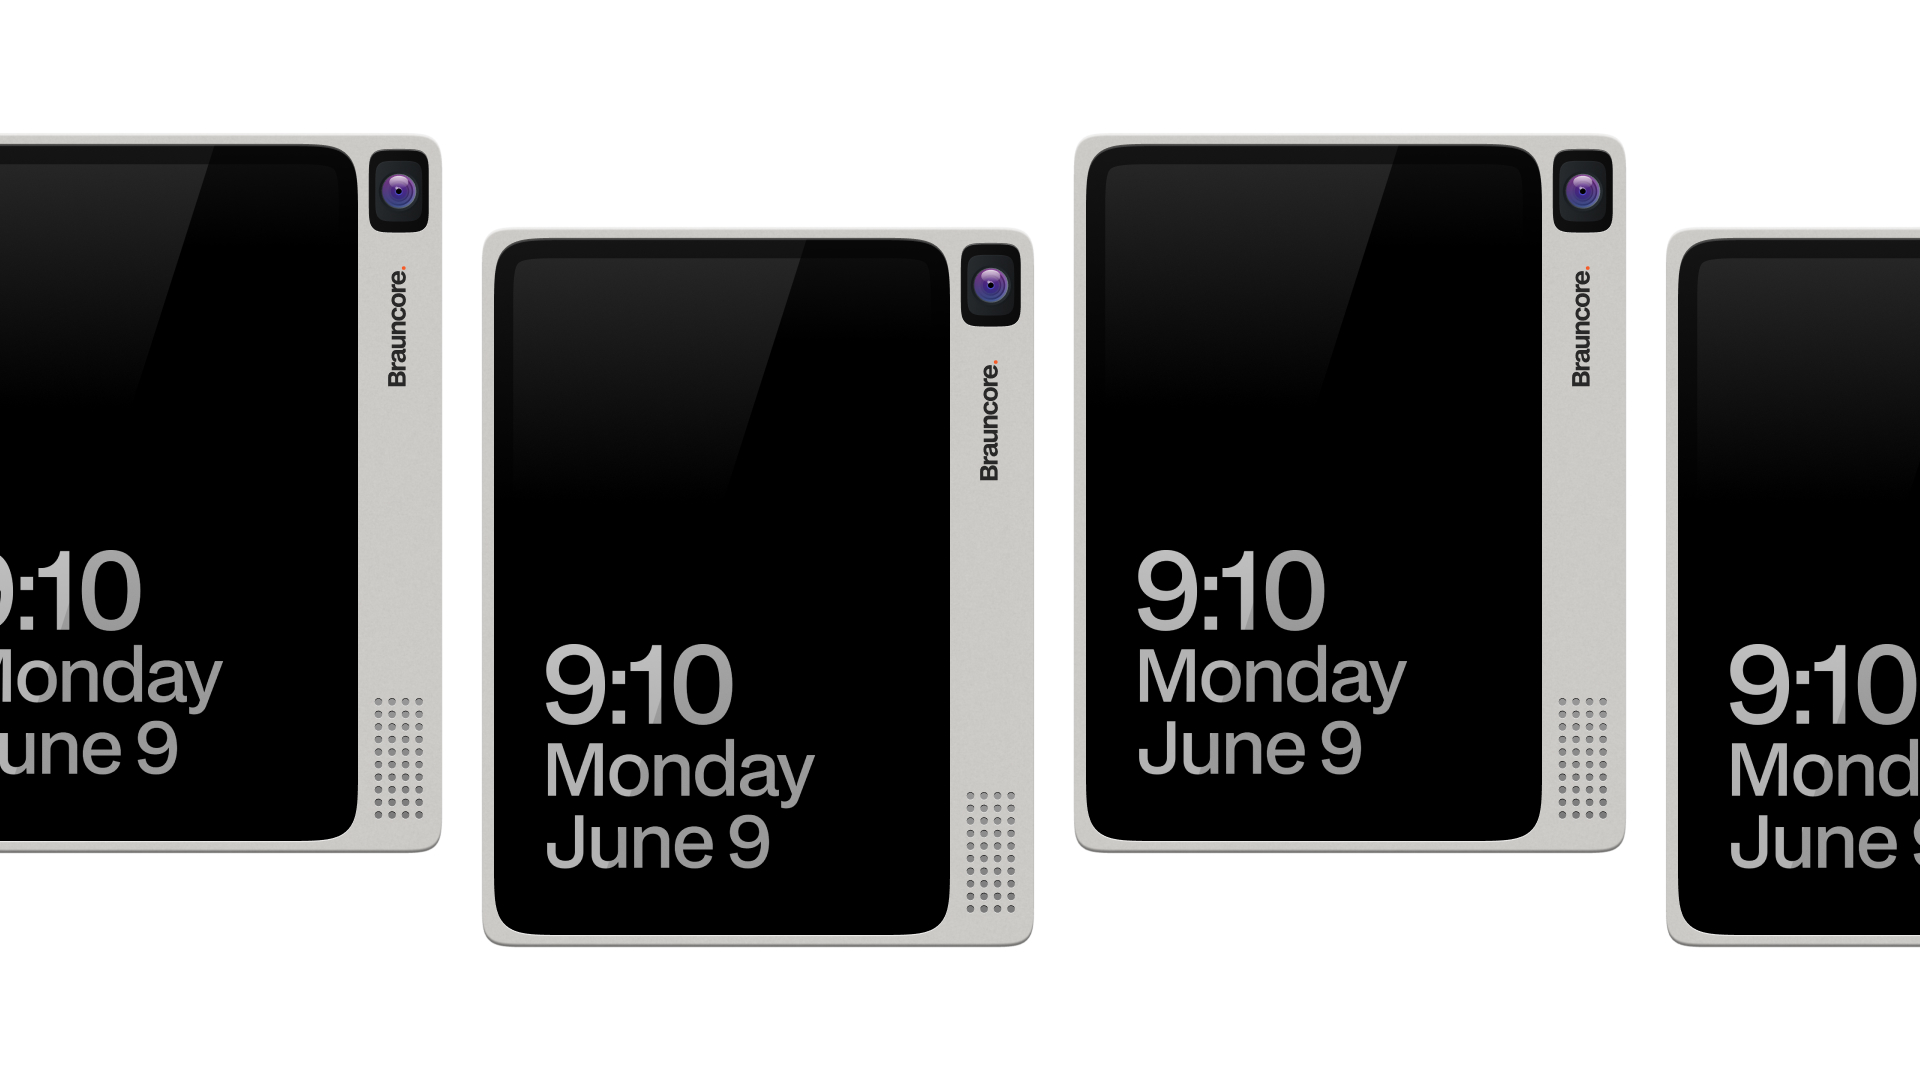
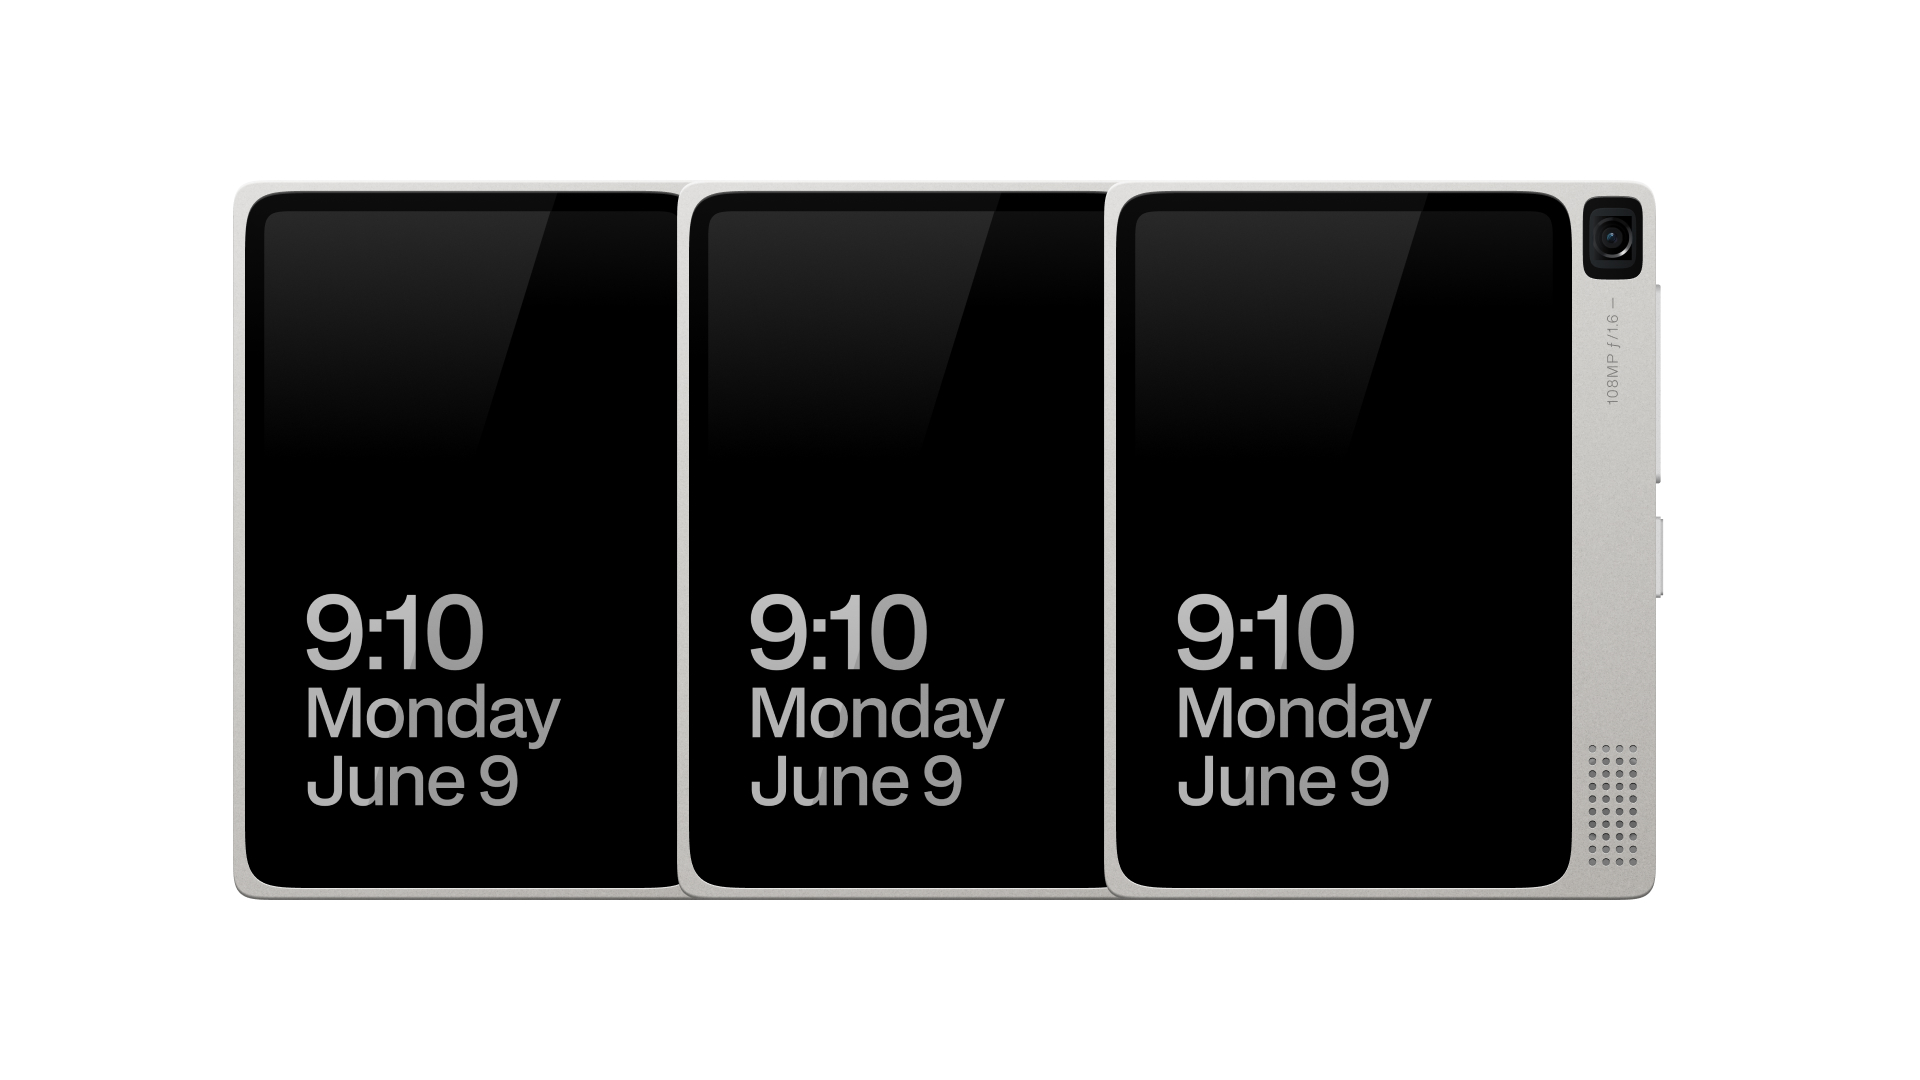
Added new Photos

diff --git a/_layouts/concept.html b/_layouts/concept.html
@@ -3,10 +3,12 @@ layout: default
 ---
 
 <div class="article-header">
-  {% for category in page.categories %}
-    <span class="tag outline">{{ category }}</span>
-    {% endfor %}
   <h1>{{ page.title }}</h1>
+  <div class="article-meta">
+    <div class="article-concept">Concept 001</div>
+    <div class="article-author">Author: Johannes Ippen</div>
+    <div class="article-date">Release Date: {{ page.date }}</div>
+  </div>
 </div>
 
 <section class="concept">
@@ -28,6 +30,9 @@ layout: default
     .concept img { margin-left: -20rem; min-width: calc(100vw - (var(--sidepadding) * 2));  }
   }
   .concept p a:hover, .concept li a:hover { background: #fc2; }
-  .article-header { margin: 20rem auto 4rem; text-align: center; padding: 0; max-width: 60rem; }
-  .article-header h1 { font-weight: 500; margin: 2rem 0; text-wrap: balance; }
+  .article-header { margin: 20rem var(--sidepadding) 4rem; text-align: center; padding: 0; border: 1px solid; }
+  .article-header h1 { font-weight: 500; margin: 2rem 0; text-wrap: balance; padding: 2rem; }
+  .article-meta { border-top: 1px solid; display: flex; }
+  .article-author, .article-concept, .article-date { padding: 1rem;  }
+  .article-author { border-left: 1px solid; border-right: 1px solid; }
 </style>

diff --git a/concept/brauncore-phone.md b/concept/brauncore-phone.md
@@ -1,15 +1,16 @@
 ---
 title: The Brauncore Phone
 layout: concept
+date: 2024-06-20 00:00:00 Z
 ---
 
 ![](/img/concept/brauncore-phone/brauncore-concept-johannesippen-overview.jpg)
 
+Let’s start with the obvious question: Why would you want to reinvent the mobile phone in 2024? We do have established brands, iterations over iterations of hardware, 
 
+It is impossible to think of a life without the smartphone. Having a device in our pockets that organizes our days, entertains us and enables us to create and share - so versatile, and yet it has a core issue: The modern smartphone is a device that everything well, but nothing great.
 
-A new generation of phone
-
-Problem: A device that does everything okayish, but nothing great
+In this concept, I will try to answer the question: What if one the greatest designers of all time had created a phone.
 
 all kind of audiences use the same device. no matter if you are a creator, a gamer or a housewife, you are all using the same device
 
@@ -28,19 +29,13 @@ We identified 3 target audiences and create not one, but 3 very distinct phones
 ![](/img/concept/brauncore-phone/brauncore-concept-johannesippen-essential.jpg)
 
 
-Smaller than most phones
+The Essential is the perfect everyday phone. Smaller than most contemporary smartphones, it is truly pocketable. Smartz power management and a meticulous focus on the most important features allow it to stay on for days.
 
-true pocket device
+We designed The Essential to be your everyday companion – the place for your digital wallet, your tickets and access codes, your shopping list and reminders. 
 
-Smart power management and focus
+The phone borrows features and design details from the Braun era, making it simple and joyful to use. Not matter if you write an email, organize your day or make a quick phone call.
 
-everyday companion
-
-the place for your wallet, your qr codes, your shopping lists and reminders
-
-Made from airplane-grade aluminium
-
-borrows a lot of details from the Braun era
+Made from airplane-grade aluminium, The Essential is an instant classic design icon. From the angle of the rounded screen corners to the haptic side buttons and screw-mounted back plate, The Essential is full of lovely design details waiting to be discovered.
 
 ![](/img/concept/brauncore-phone/brauncore-concept-johannesippen-essential-uses.jpg)
 
@@ -63,21 +58,19 @@ borrows a lot of details from the Braun era
 
 ![](/img/concept/brauncore-phone/brauncore-concept-johannesippen-creator.jpg)
 
-second phone in the lineup
+The second phone in the lineup comes with a twist: It does feature an amazing stabilized 108MP camera – pointing to the front, not the back. The Creator is the first phone ever to feature an exclusive flagship selfie camera. 
 
-has a great camera, with a difference: Instead of pointing away, it points at. something no other phone vendor does today
+Accompanied by a built-in condensor microphone, this makes it the perfect setup for vlogging, streaming, video conferencing or just taking selfies.
 
-selfie, streaming, vlog
-
-not for everyone – it is for you, the creator
+The Creator is not for everyone – it is a phone specifically designed for you, the creator community. For the first time, you are able to create high quality imaginery of yourself while monitoring yourself, on the device you edit and post your content.
 
 ![](/img/concept/brauncore-phone/brauncore-concept-johannesippen-creator-detail.jpg)
 
-great microphone
+The Creator comes with a magnetic snap-on action camera mount, which is compatible with most action cam accessories, making it compatible with you existing camera gear.
 
-Action cam mount
+The smart button on the side of the device lets you snap photos, video or shorts without having to open the dedicated app: Tap the button once to take a selfie, double-tap to record a video or hold to record a 15 second short.
 
-smart button on the side lets you snap photos, video or shorts
+Obviously, The Creator features a full Android with Brauncore UI, which allows you to use it as a regular phone.
 
 ![](/img/concept/brauncore-phone/brauncore-concept-johannesippen-creator-use.jpg)
 
@@ -98,13 +91,13 @@ smart button on the side lets you snap photos, video or shorts
 
 ![](/img/concept/brauncore-phone/brauncore-concept-johannesippen-entertainer.jpg)
 
-third phone dedicated to watch & play
-
-bigger chipset & higher frame rate
+The final device of the Brauncore lineup is dedicated to watch & play. The Entertainer comes with a bigger chipset, allowing for a higher framerate and a more fluent playing experience. It is the perfect device for casual or core gamers, as well as travellers, enabling them to enjoy a movie or a show on the go. 
 
 ![](/img/concept/brauncore-phone/brauncore-concept-johannesippen-entertainer-detail.jpg)
 
-dedicated button set that adapts to most horizontal console games, but can also be used in a vertical way
+The dedicated button set adapts to most horizontal console games, but can also be used in a portrait orientation, improving the player experience for casual or classic arcade games.
+
+When flipped to the top, the button sets works as quick access to control video playback.
 
 ![](/img/concept/brauncore-phone/brauncore-concept-johannesippen-entertainer-use.jpg)
 
@@ -126,3 +119,5 @@ dedicated button set that adapts to most horizontal console games, but can also 
 ![](/img/concept/brauncore-phone/brauncore-concept-johannesippen-lineup.jpg)
 
 ![](/img/concept/brauncore-phone/brauncore-concept-johannesippen-concepts.jpg)
+
+The Brauncore phone is a concept by Johannes Ippen. It is not associated or endorsed by Braun/Procter & Gamble Service GmbH
